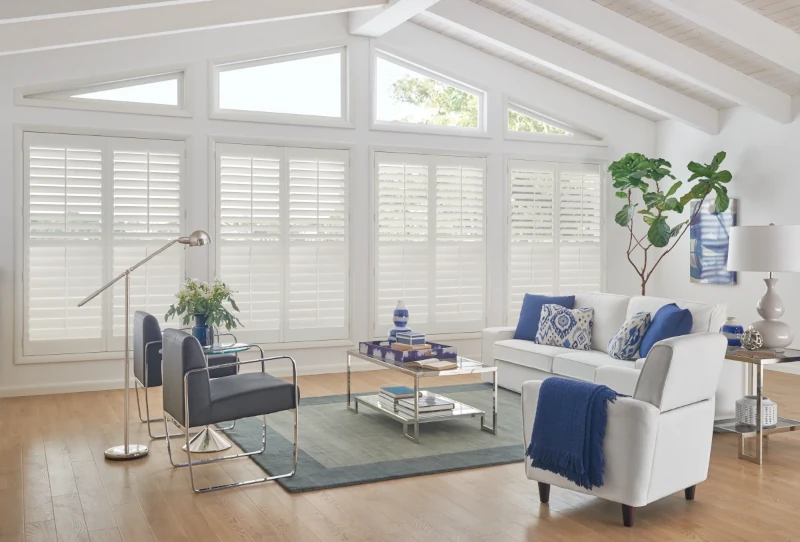
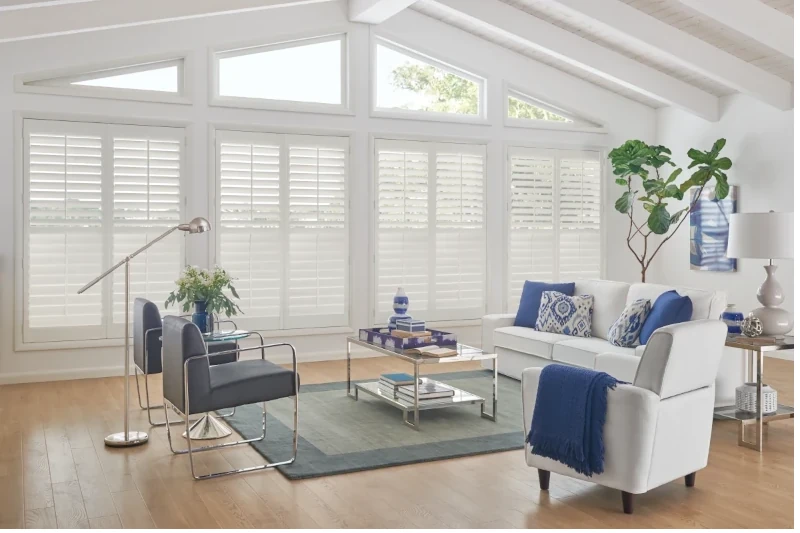
Update

diff --git a/window-shutters.html b/window-shutters.html
@@ -204,39 +204,72 @@
   <!-- Calendly badge widget end -->
 
   <main class='h-center-div'>
-    <section class='h-center-div margin-rl-20'>
-      <!-- <div class=""> -->
-        <img class="h-center-all" width="1800" height="712" loading="lazy" src="images/1922-Wood-Shutters-RS17-V1-Wide.webp" alt='Graber plantation shutters in an Oklahoma City living room'>
-        <div class="h-center-div">
+    <section class="margin-tb-25">
+      <div class="padding-15 outer-flex">
+        <img class="max-width-90p-h-auto margin-rl30" width="800" height="533" loading="lazy" src="images/1922-WhiteWood-Shutters.webp" alt='Graber plantation shutters in an Oklahoma City living room'>
+        <div class='centerSmall'>
+          <h1 class="stagger1 fs-1000 balanced-text">Custom Window Shutters in Oklahoma City & Edmond</h1>
 
-          <h1 class="index-H1 h-center balanced-text margin-tb-25">Custom Window Shutters in Oklahoma City & Edmond</h1>
-          <p>Looking to upgrade your Oklahoma City or Edmond home with stylish, energy-efficient window shutters? At Shaded In The Sun, we specialize in custom <a href="/graber.html">Graber®</a> shutters that blend beauty with performance — all installed by a local team you can trust. We also carry <a href="/norman.html">Norman®</a> shutters for homeowners looking for additional options. Not sure if shutters are right for you? Explore our guide to <a href="/Best-Alternatives-to-Blinds.html">the best alternatives to blinds</a> or learn about <a href="/shades-and-shutters-and-blinds-oh-my.html">the differences between shades, shutters, and blinds</a> to find your perfect match.</p>
+          <div class='margin-t-25'>
+            <h2 class='variable-h2-orange h-center margin-t-15'>What You'll Learn in This Article:</h2>
+            <ul class='margin-t-10'>
+              <li class='fs-550 padding-left-15px margin-t-10'><span class='pop-100'>✓</span> <span class='text-neutral-900'>How plantation shutters add elegance and long-term value to your Oklahoma City home</span></li>
+              <li class='fs-550 padding-left-15px margin-t-10'><span class='pop-100'>✓</span> <span class='text-neutral-900'>The differences between Graber hardwood and composite shutters for your specific needs</span></li>
+              <li class='fs-550 padding-left-15px margin-t-10'><span class='pop-100'>✓</span> <span class='text-neutral-900'>Why custom shutters are superior to pre-made options for window treatments</span></li>
+              <li class='fs-550 padding-left-15px margin-t-10'><span class='pop-100'>✓</span> <span class='text-neutral-900'>How to choose between wood and composite materials based on moisture exposure</span></li>
+            </ul>
+          </div>
 
-          <p class='fs-900 h-center margin-tb-25'>Call Brent & Edna today at <a class='button2'
-              href="tel:14052595599" onclick="return gtag_report_conversion();">405-259-5599</a> <br>for your window treatment questions.</p>
-                    
-          <h2 class="fs-700 margin-t-15 text-neutral-900">Graber Interior Wood Shutters:</h2>
-          <ul>
-            <li><p><strong><span class='pop-100'> &#8226;</span> A Legacy of Quality:</strong> Crafted from exquisite 100% North American hardwood, Graber Interior Wood Shutters epitomize elegance and sophistication.</p></li>
-            <li><p><strong><span class='pop-100'> &#8226;</span> Handcrafted Perfection:</strong> Each shutter is meticulously handcrafted, ensuring unparalleled quality and attention to detail. Choose from a diverse range of custom styles to perfectly complement your unique architectural style and personal taste.</p></li>
-            <li><p><strong><span class='pop-100'> &#8226;</span> Investing in Your Home:</strong> More than just a window covering, Graber Interior Wood Shutters are an investment in the enduring beauty and value of your home. They add a touch of warmth, character, and timeless appeal that will be admired for years to come.</p></li>
-          </ul>
-          
-          <h2 class='margin-t-15 text-neutral-900'>Graber Composite Shutters:</h2>
-          
-          <ul>
-            <li><p><strong><span class='pop-100'> &#8226;</span> The Perfect Solution for Every Room:</strong> When durability and moisture resistance are paramount, Graber Composite Shutters offer a versatile and elegant solution. Engineered with high-quality materials, these shutters are ideal for kitchens, bathrooms, laundry rooms, and any space prone to high humidity.</p></li>
-            <li><p><strong><span class='pop-100'> &#8226;</span> Beauty and Resilience:</strong> Enjoy the same timeless beauty and style as real wood shutters, but with the added benefit of exceptional durability and resistance to moisture, warping, and fading.</p></li>
-            <li><p><strong><span class='pop-100'> &#8226;</span> Easy Care and Maintenance:</strong> Graber Composite Shutters are designed for effortless maintenance, requiring minimal cleaning and upkeep.</p></li>
-          </ul>
-          
-          <h2 class='margin-t-15 text-neutral-900'>Elevate Your Windows with Graber & Norman®</h2>
-
-          <p>Whether you prefer the natural beauty of real wood or the durability of composite materials, <a href="/graber.html">Graber®</a> and <a href="/norman.html">Norman®</a> offer diverse selections of shutter styles to suit every home and design preference. Both brands deliver quality craftsmanship and elegant designs that enhance your home's beauty. Want to explore all your options? Check out our <a href="/LuxuryWindowTreatments.html">guide to luxury window treatments</a> for inspiration.</p><br>
-          
-          <p><strong>Experience the difference of Graber window shutters today. Explore our extensive collection and find the perfect shutters to transform your windows and enhance the beauty of your home.</strong></p>
+          <p class='Second-Color fs-900 h-center margin-t-25'>Call Brent & Edna today at <a class='button2'
+                href="tel:14052595599" onclick="return gtag_report_conversion();">405-259-5599</a> <br>for your window treatment questions.</p>
         </div>
-      <!-- </div> -->
+      </div>
+    </section>
+
+    <section>
+      <div class='vertical-center container'>
+        <p class='h-center-div padding-15 max-width-80p'>Looking to upgrade your Oklahoma City or Edmond home with stylish, energy-efficient window shutters? At Shaded In The Sun, we specialize in custom <a href="/graber.html">Graber®</a> shutters that blend beauty with performance — all installed by a local team you can trust. We also carry <a href="/norman.html">Norman®</a> shutters for homeowners looking for additional options. Not sure if shutters are right for you? Explore our guide to <a href="/Best-Alternatives-to-Blinds.html">the best alternatives to blinds</a> or learn about <a href="/shades-and-shutters-and-blinds-oh-my.html">the differences between shades, shutters, and blinds</a> to find your perfect match.</p>
+      </div>
+    </section>
+
+    <section>
+      <div class='vertical-center container'>
+        <h2 class='h-center balanced-text variable-h2-orange'>Graber Interior Wood Shutters</h2>
+        <ul class='margin-tb-25'>
+          <li class='fs-550 padding-left-15px'><span class='pop-100'> &#8226;</span> <span
+              class="fw-bold text-neutral-900 fs-550">A Legacy of Quality:</span>
+            <span class='text-neutral-900'> Crafted from exquisite 100% North American hardwood, Graber Interior Wood Shutters epitomize elegance and sophistication.</span>
+          </li>
+          <li class='fs-550 padding-left-15px'><span class='pop-100'> &#8226;</span> <span
+              class="fw-bold text-neutral-900 fs-550">Handcrafted Perfection:</span>
+            <span class='text-neutral-900'> Each shutter is meticulously handcrafted, ensuring unparalleled quality and attention to detail. Choose from a diverse range of custom styles to perfectly complement your unique architectural style and personal taste.</span>
+          </li>
+          <li class='fs-550 padding-left-15px'><span class='pop-100'> &#8226;</span> <span
+              class="fw-bold text-neutral-900 fs-550">Investing in Your Home:</span>
+            <span class='text-neutral-900'> More than just a window covering, Graber Interior Wood Shutters are an investment in the enduring beauty and value of your home. They add a touch of warmth, character, and timeless appeal that will be admired for years to come.</span>
+          </li>
+        </ul>
+
+        <h2 class='h-center balanced-text margin-tb-25 variable-h2-orange'>Graber Composite Shutters</h2>
+        <ul class='margin-tb-25'>
+          <li class='fs-550 padding-left-15px'><span class='pop-100'> &#8226;</span> <span
+              class="fw-bold text-neutral-900 fs-550">The Perfect Solution for Every Room:</span>
+            <span class='text-neutral-900'> When durability and moisture resistance are paramount, Graber Composite Shutters offer a versatile and elegant solution. Engineered with high-quality materials, these shutters are ideal for kitchens, bathrooms, laundry rooms, and any space prone to high humidity.</span>
+          </li>
+          <li class='fs-550 padding-left-15px'><span class='pop-100'> &#8226;</span> <span
+              class="fw-bold text-neutral-900 fs-550">Beauty and Resilience:</span>
+            <span class='text-neutral-900'> Enjoy the same timeless beauty and style as real wood shutters, but with the added benefit of exceptional durability and resistance to moisture, warping, and fading.</span>
+          </li>
+          <li class='fs-550 padding-left-15px'><span class='pop-100'> &#8226;</span> <span
+              class="fw-bold text-neutral-900 fs-550">Easy Care and Maintenance:</span>
+            <span class='text-neutral-900'> Graber Composite Shutters are designed for effortless maintenance, requiring minimal cleaning and upkeep.</span>
+          </li>
+        </ul>
+
+        <h2 class='h-center balanced-text margin-tb-25 variable-h2-orange'>Elevate Your Windows with Graber & Norman®</h2>
+        <p>Whether you prefer the natural beauty of real wood or the durability of composite materials, <a href="/graber.html">Graber®</a> and <a href="/norman.html">Norman®</a> offer diverse selections of shutter styles to suit every home and design preference. Both brands deliver quality craftsmanship and elegant designs that enhance your home's beauty. Want to explore all your options? Check out our <a href="/LuxuryWindowTreatments.html">guide to luxury window treatments</a> for inspiration.</p>
+        <p><strong>Experience the difference of Graber window shutters today. Explore our extensive collection and find the perfect shutters to transform your windows and enhance the beauty of your home.</strong></p>
+      </div>
     </section>
     <section>
       <h2 class='fs-1000 h-center-all balanced-text'>Here are some of the many options for Graber Shutters</h2>
@@ -258,8 +291,27 @@
         
       </div>
     </section>
+    <section>
+      <div class='vertical-center container'>
+        <h2 class='h-center balanced-text margin-tb-25 variable-h2-orange'>Related Articles</h2>
+      </div>
+      <div class="container grid-3-col">
+        <div class="card h-center-div">
+          <h3 class='variable-h3-orange h-center balanced-text'>Motorized Blinds for Smart Homes</h3>
+          <p class='padding-left-5px'>Discover how motorized window treatments add convenience and modern technology to your Oklahoma City home. <a href="/best-motorized-blinds-installer-oklahoma-city.html">Explore motorized shade options</a></p>
+        </div>
+        <div class="card h-center-div">
+          <h3 class='variable-h3-orange h-center balanced-text'>Explore All Window Blind Types</h3>
+          <p class='padding-left-5px'>Learn about the complete range of window covering options available and find what works best for your needs. <a href="/Types-of-window-blinds.html">Discover blind options</a></p>
+        </div>
+        <div class="card h-center-div">
+          <h3 class='variable-h3-orange h-center balanced-text'>Energy-Efficient Window Treatments</h3>
+          <p class='padding-left-5px'>Save on heating and cooling costs with energy-efficient window treatments designed for Oklahoma's climate. <a href="/Energy-Saving-Window-Shades-Edmond-and-OKC.html">Learn about energy efficiency</a></p>
+        </div>
+      </div>
+    </section>
     <section class='margin-t-20'>
-      <h3 class='fs-900 max-width-80p balanced-text h-center-all'><a class='fs-600 underline-text' href='/faq.html'>Have questions about custom window shutters? See our comprehensive FAQ for expert answers.</a></h3><br>
+      <h3 class='fs-900 max-width-40ch balanced-text h-center-all'><a class='fs-600 underline-text' href='/faq.html'>Have questions about custom window shutters? See our comprehensive FAQ for expert answers.</a></h3><br>
       <h3 class='max-width-80p balanced-text h-center-all variable-h3'>🎯 Ready to experience the convenience of motorized
         window treatments?
         <a class='underline-text' href="tel:14052595599" onclick="return gtag_report_conversion();">Call Brent & Edna at
